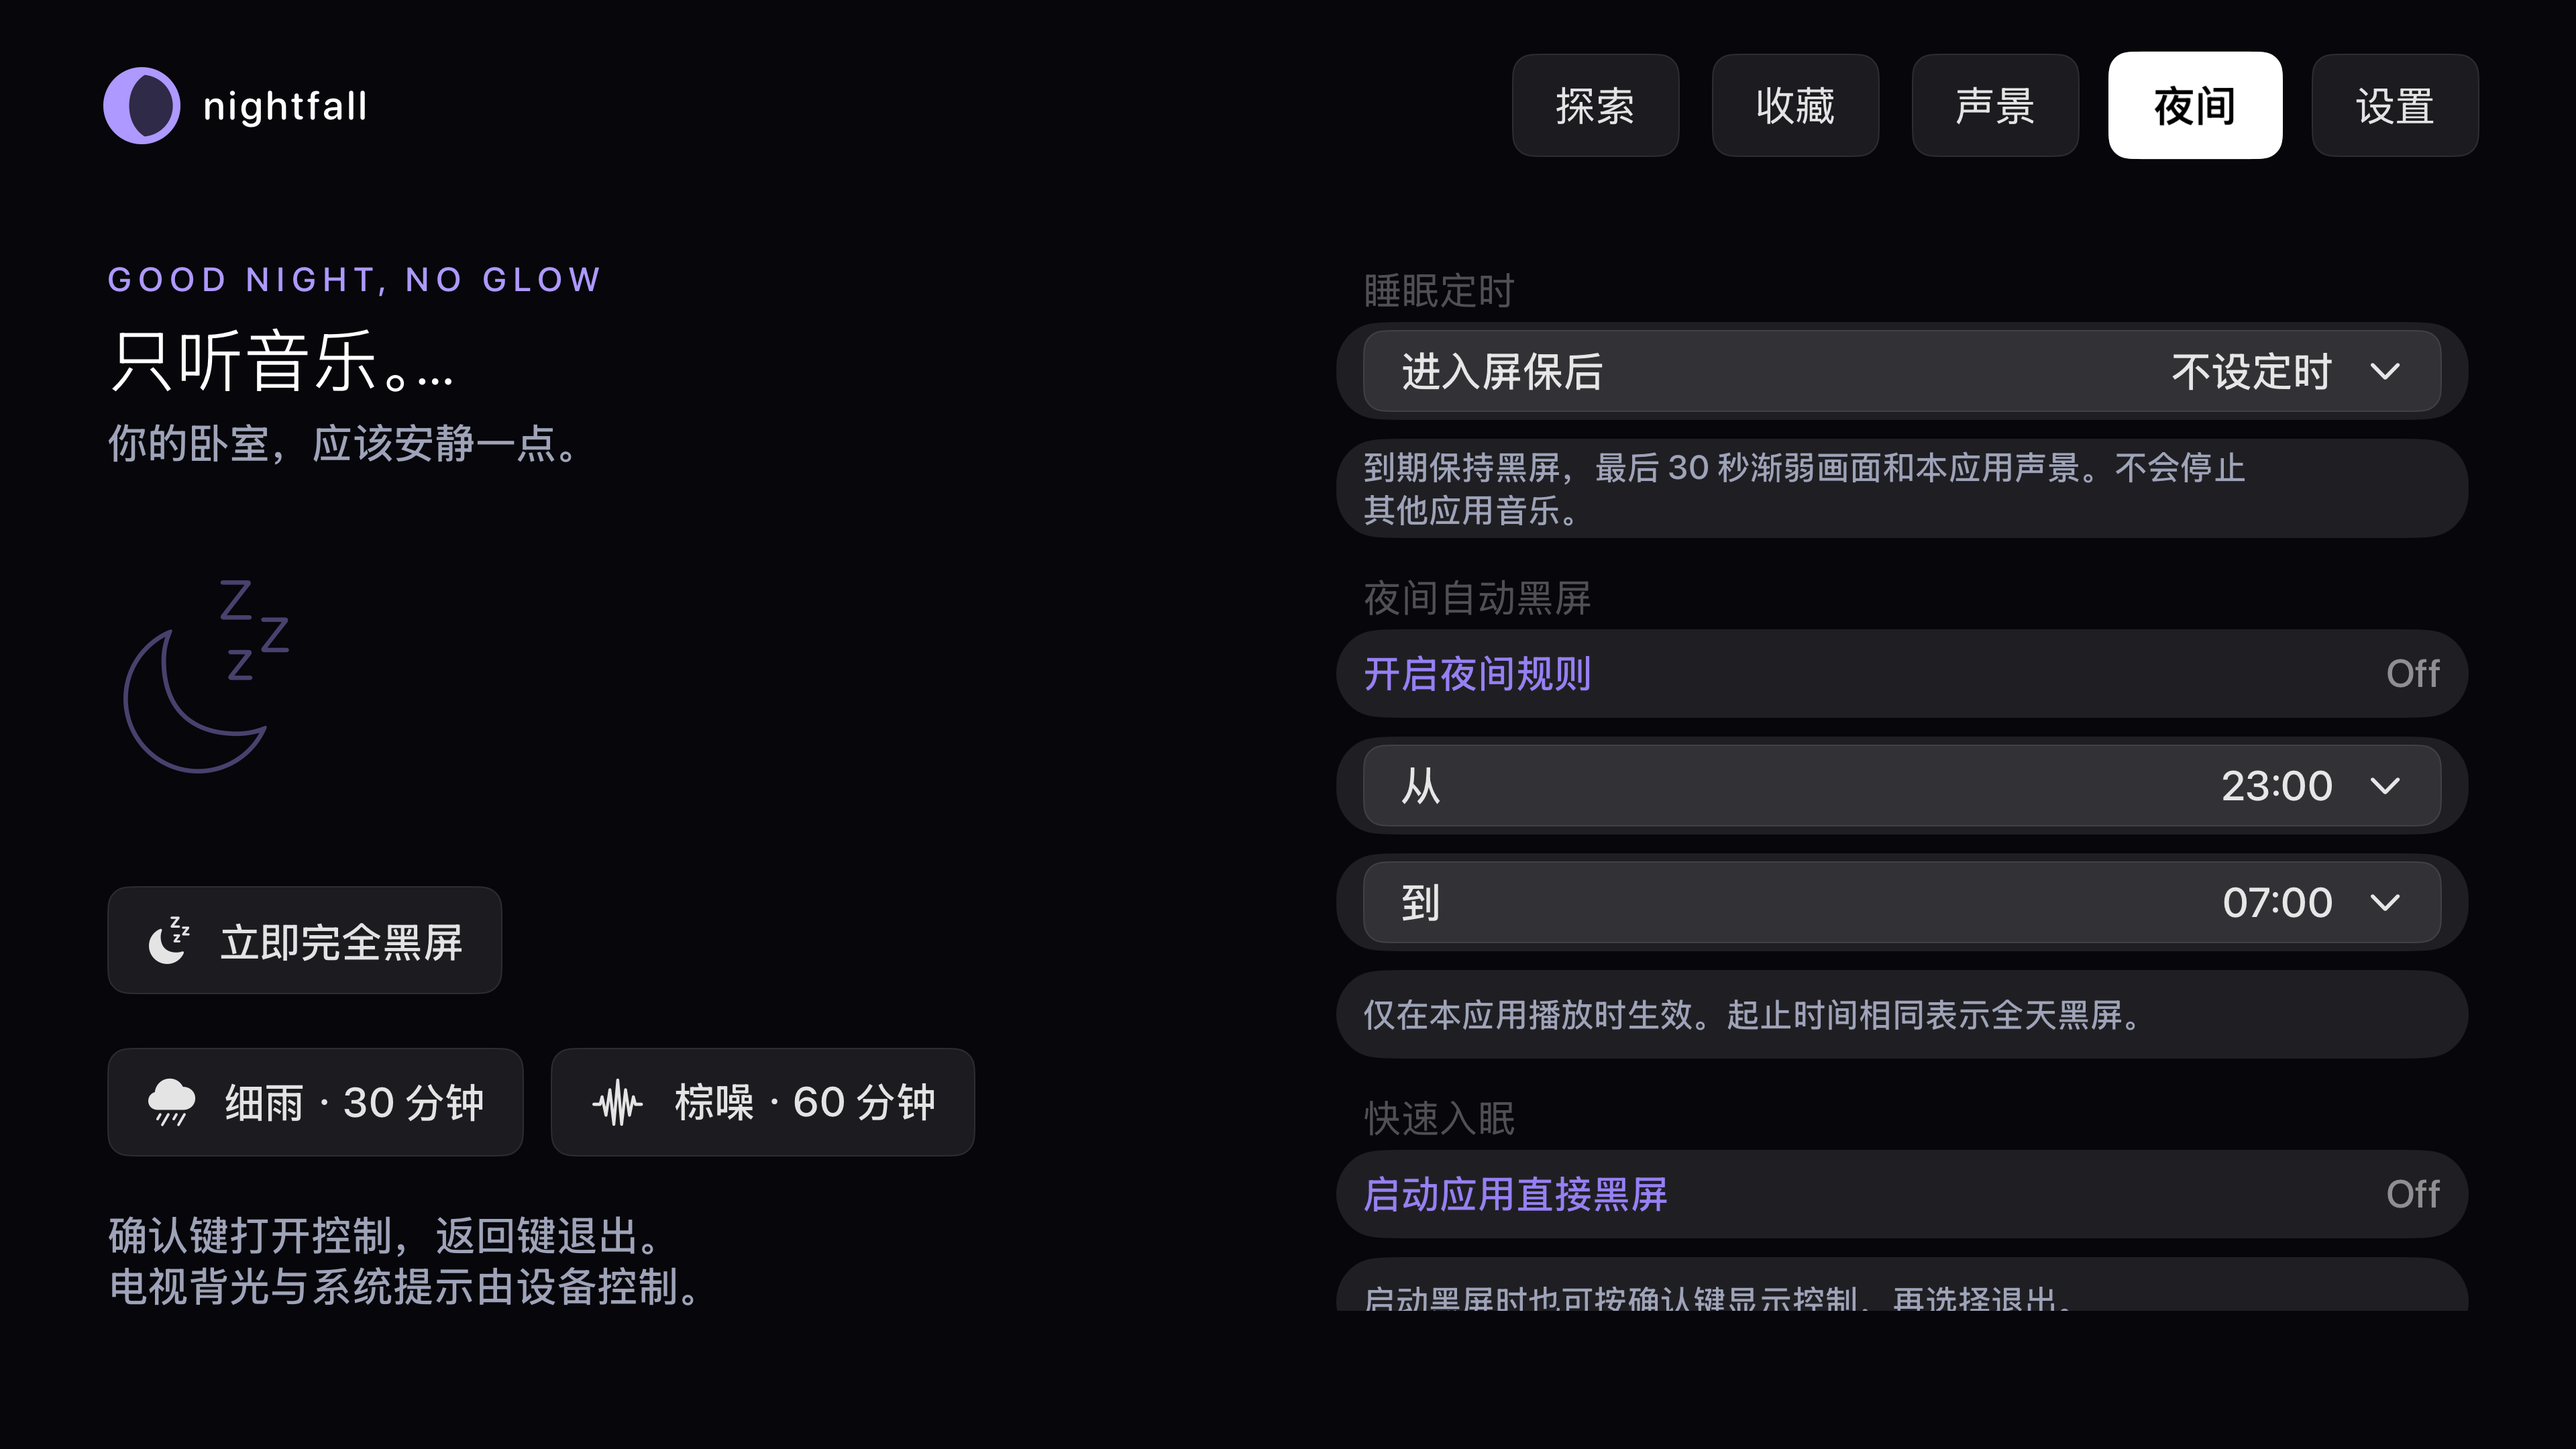
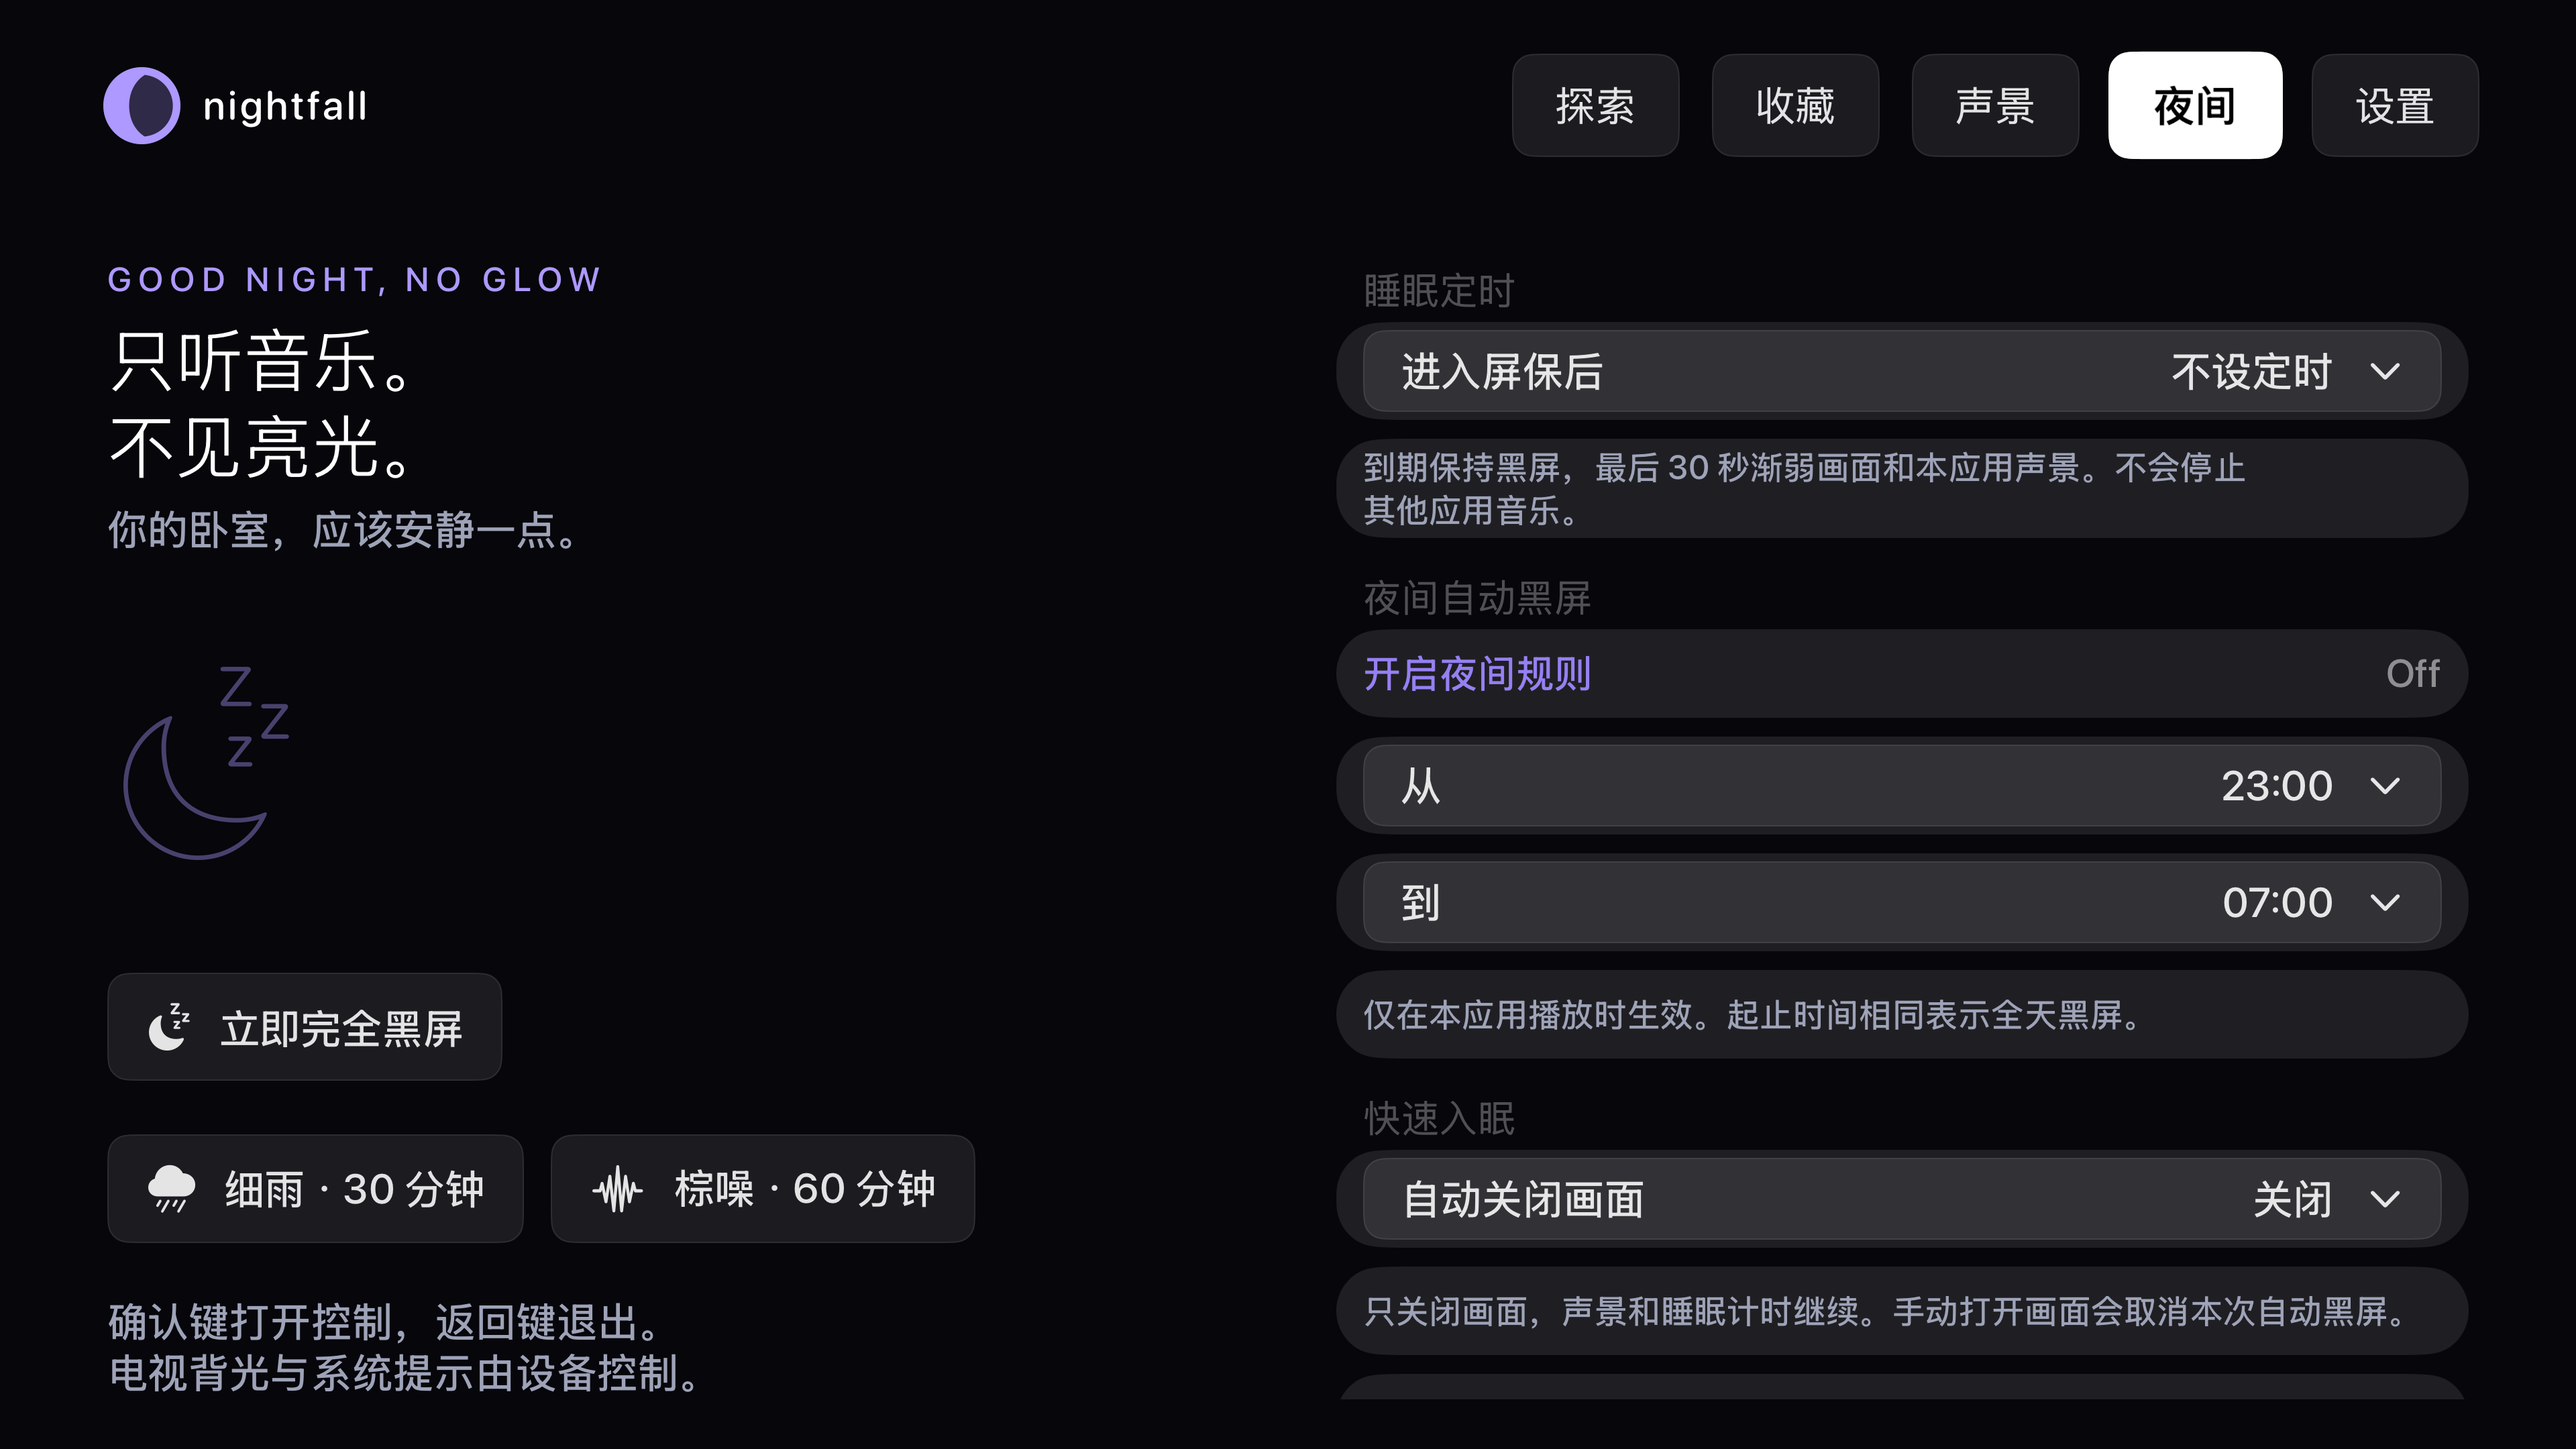
docs: record 1.2.0 regression and TestFlight delivery

diff --git a/README.md b/README.md
@@ -2,7 +2,7 @@
 
 An open-source, native Apple TV screensaver player for a calmer living room and a darker bedroom. Built with SwiftUI and AVFoundation. Free, offline-first, no account, no ads.
 
-原生 Apple TV 屏保播放器：13 种屏保模式，包含 10 个真实拍摄场景、完全黑屏、个人照片画廊、收藏轮播、10 种离线声景、睡眠定时与夜间自动黑屏。免费开源，没有广告或订阅。
+原生 Apple TV 屏保播放器：13 种屏保模式，包含 10 个真实拍摄场景、完全黑屏、个人照片画廊、收藏轮播、10 种离线声景、三层混音、个人睡前方案与独立自动黑屏。免费开源，没有广告或订阅。
 
 ![Nightfall TV 实际首页](docs/screens/library.png)
 
@@ -20,6 +20,9 @@ An open-source, native Apple TV screensaver player for a calmer living room and 
 - **私人收藏**：顺序 / 随机轮播、切换间隔、场景收藏。
 - **柔和声景**：雨、海浪、溪流、炉火、林间鸟鸣、夏夜虫鸣、风过树叶、瀑布、粉噪音、棕噪音；八种自然声为实录、两种有色噪音为合成，立体声离线循环，主动选择后才发声。
 - **有声屏保与画面开关**：场景详情可带推荐录音启动；声景页可自由搭配画面或纯黑；播放中可换声景、调音量、关画面和恢复，保留睡眠计时。默认不自动发声。
+- **三层声景混音**：最多同时搭配三种声音，调整每层相对音量；共有录音持续播放，不因增减声层而重新开始。主音量限制整体增益，睡眠淡出作用于全部声层。
+- **个人睡前方案**：最多十二个命名方案，保存画面、纯黑状态、声层、音量、亮度和两种定时；在「夜间 → 我的睡前方案」播放、纯黑听或移除，本地保存，重启后仍在。
+- **先看风景，再关画面**：1／5／10／15／30 分钟后自动黑屏，最后十秒渐暗；声音和睡眠计时继续。画面暂停不延长亮屏时间，手动恢复取消本次画面计时。
 - **睡前快捷方案**：30 分钟细雨、60 分钟棕噪音，一键纯黑入眠。
 - **睡眠与夜间**：15–120 分钟定时，结束保持黑屏；画面和本应用声音最后 30 秒一起淡出；自定义跨午夜规则。
 - **你的照片**：最多 30 张 HTTPS 图片直链；内存缓存、下载与解码限制；加载失败保持暗色。
@@ -29,11 +32,15 @@ An open-source, native Apple TV screensaver player for a calmer living room and 
 |---|---|
 | ![声景控制](docs/screens/sound-controls.png) | ![新声景](docs/screens/new-soundscapes.png) |
 
+| 三层声景混音 | 自动黑屏后恢复原画面 |
+|---|---|
+| ![混音](docs/screens/sound-mixer.png) | ![独立画面计时](docs/screens/picture-timer.png) |
+
 ## 使用
 
 在音乐应用里开始播放 → 返回桌面 → 启动 Nightfall TV → 选择屏保，或「一键黑屏」。主动选择声景会与其他应用音频混音，默认没有声音。不同播放器的后台音乐兼容性需要在真实 Apple TV 验证。
 
-维护者的 TestFlight 内部构建为 **1.1.0（5）**，已完成 Apple 处理并加入 Nightfall Internal。收到邀请的 Apple ID 可在 Apple TV 安装 TestFlight，再接受邀请并安装；目前采用内部测试，不提供公开兑换链接。旧1.0.2（4）已有 Apple TV 4K（第三代，tvOS26.6）安装记录；新版真机安装、听感、音乐兼容和长时间播放由用户自行验收；开发交付以模拟器回归通过为准，详见回归记录。
+维护者的 TestFlight 内部构建为 **1.2.0（6）**，已完成 Apple 处理并加入 Nightfall Internal。收到邀请的 Apple ID 可在 Apple TV 安装 TestFlight，再接受邀请并安装；目前采用内部测试，不提供公开兑换链接。旧1.0.2（4）已有 Apple TV 4K（第三代，tvOS26.6）安装记录；新版真机安装、听感、音乐兼容和长时间播放由用户自行验收；开发交付以模拟器回归通过为准，详见回归记录。
 
 [Apple 当前 TestFlight 安装指南](https://beta.itunes.apple.com/)要求 Apple TV 运行 tvOS 18 或以上（应用自身最低 tvOS 17）。邮件邀请需在手机或电脑打开取得兑换码，再到电视上的 TestFlight → Redeem 输入代码；详细安装和配对步骤见[回归文档](docs/回归测试.md#testflight-真机验收)。
 
@@ -63,7 +70,7 @@ xcodebuild -project NightfallTV.xcodeproj -scheme NightfallTV \
   CODE_SIGNING_ALLOWED=NO test
 ```
 
-1.1.0（5）已在 tvOS26.5 的 Apple TV4K 模拟器完成 **18个单元测试＋14个遥控器UI测试，32/32全部通过，0失败、0跳过**（2026-10-12）。[最终应用源码的云端完整回归](https://github.com/ZanwingMak/NightfallTV/actions/runs/38204028253)也已 **32/32通过**（Xcode16.4、tvOS26.1）。测试覆盖自选声景画面、纯黑与恢复、计时不重置、有声屏保、睡前方案及单次方向键跳转，并保存实际界面截图供人工检查。其中照片网络专项访问本仓库的公开截图，离线执行可追加 `-skip-testing:NightfallTVTests/PersistenceTests/testRemotePhotosAndCache`。
+1.2.0（6）已在 tvOS26.5 的 Apple TV4K 模拟器完成 **24个单元测试＋16个遥控器UI测试，40/40全部通过，0失败、0跳过**（2026-10-12）。[最终应用源码的云端完整回归](https://github.com/ZanwingMak/NightfallTV/actions/runs/38255699835)也已 **40/40通过**。测试覆盖三层混音持续播放、旧偏好迁移、方案保存与重启恢复／删除、真实等待一分钟的自动黑屏、画面恢复及原有遥控器方向导航。已保存实际界面截图并检查中英文显示和焦点样式。其中照片网络专项访问本仓库的公开截图，离线执行可追加 `-skip-testing:NightfallTVTests/PersistenceTests/testRemotePhotosAndCache`。
 
 如需修改工程配置，安装 XcodeGen 后执行 `xcodegen generate`。实拍视频可用 `python3 scripts/import_media.py` 重新导入（需 FFmpeg，遵守来源网站限流）。自然录音可用 `python3 scripts/import_audio.py` 重新导入，有色噪音可用 `python3 scripts/generate_audio.py` 生成（两者需要 FFmpeg，以及 `python3 -m pip install -r scripts/requirements-audio.txt` 安装的 NumPy）；图标用 `swift scripts/generate_assets.swift` 生成。安装到自己的真机或发布时，请在 Xcode Signing 中替换为自己的 Team 和 Bundle ID；`ExportOptions.plist` 是本项目维护者的发布配置示例，其他开发者需替换对应值。
 

diff --git a/docs/回归测试.md b/docs/回归测试.md
@@ -138,3 +138,22 @@ IPA SHA-256：`683aff5bfb51451d89fe53d55bf1ad88595ab6825ff20f85410acb86b8eb98c1`
 用户明确要求「真机验收交给我来，你在模拟器验收完即可」。因此开发侧验收以模拟器为准，真实电视的听感、外部音乐、背光及30分钟播放由用户负责；交接不等同于这些项目已通过。最终应用源码与完成32项回归的 `fbfd065` 一致，没有为更新交付记录再次改变应用或重复测试。
 
 重新登录后已在App Store Connect保存1.1.0新版应用总说明，并通过官方API逐字核对持久化内容。1.1.0（5）仍为VALID／IN_BETA_TESTING，已加入Nightfall Internal且构建测试重点已保存。GitHub v1.1.0已公开发布；开发、资源许可、模拟器UI／遥控器验收、签名上传及内部测试分发均完成。真机后续反馈作为用户验收结果处理。
+
+
+## 1.2.0（6）混音、个人方案与独立自动黑屏
+
+根据同类产品的官方公开功能，加入三层声景混音、最多十二个命名睡前方案和独立画面计时。本轮沿用现有许可素材，没有把竞品宣传或音频播放标识当作实测证据。
+
+回归发现并修正混音面板顶部完成按钮的焦点死角，以及嵌套音量选择关闭后不应清除父面板的选择状态。首次完整回归39/40通过，方案删除确认失败；弹窗改为捕获呈现时的方案对象，避免关闭弹窗先清空待删除对象，测试等待实际列表移除。删除修正专项1/1通过后重新完整测试，失败运行不计入通过。
+
+最终应用源码 `2a40f45c434e47f1c1f13727c85790559e368c16` 的本地完整回归：Xcode26.5、tvOS26.5、Apple TV4K第三代模拟器，24个单元测试＋16个遥控器UI测试，**40/40通过、0失败、0跳过**。结果包 `artifacts/Regression-final-6.xcresult`、摘要 `artifacts/regression-summary-6.json`；删除专项 `artifacts/Routine-fixed-6.xcresult`。旧偏好迁移、方案保存／重启恢复／删除、真实AVAudioPlayer持续播放位置、三层限制、增益余量及已有素材解码检查均通过。
+
+自动黑屏UI用例真实等待一分钟，并在画面暂停时逐像素验证全黑；恢复后保留雨声与潮汐、保留三十分钟睡眠定时，并取消本次画面计时。单元测试分别验证画面最后十秒淡暗与睡眠最后三十秒声音淡出，夜间全天黑屏规则不能被方案恢复绕过。
+
+实际截图已人工检查混音面板和四行播放控制，聚焦按钮、声音名称、音量及两种定时没有关键文字遮挡。截图见 [混音](screens/sound-mixer.png)、[画面恢复与计时](screens/picture-timer.png)。中英文设置、声景入口与夜间页截图也已检查。Mac锁屏使额外的窗口手动按键复核暂时无法执行；方案列表的保存、重启恢复及删除遥控器流程已经由UI测试实际通过。真机验收沿用用户交接约定，不作为开发交付阻塞项，也不声称真实电视已经通过。
+
[1 lines of base64/hex data omitted]
+
+最终源码的[GitHub完整回归](https://github.com/ZanwingMak/NightfallTV/actions/runs/38255699835)也已**40/40通过、0失败、0跳过**，24单元＋16UI。旧源码云端运行与本地一样在方案删除断言失败，未算作通过；最终运行使用同一个删除修正提交，未跳过失败用例。
+
+Apple官方API确认1.2.0（6）为VALID／IN_BETA_TESTING，已加入Nightfall Internal。构建测试重点、应用总说明和包含个人方案的隐私说明均保存并逐字复核；真机验收继续交接用户。
